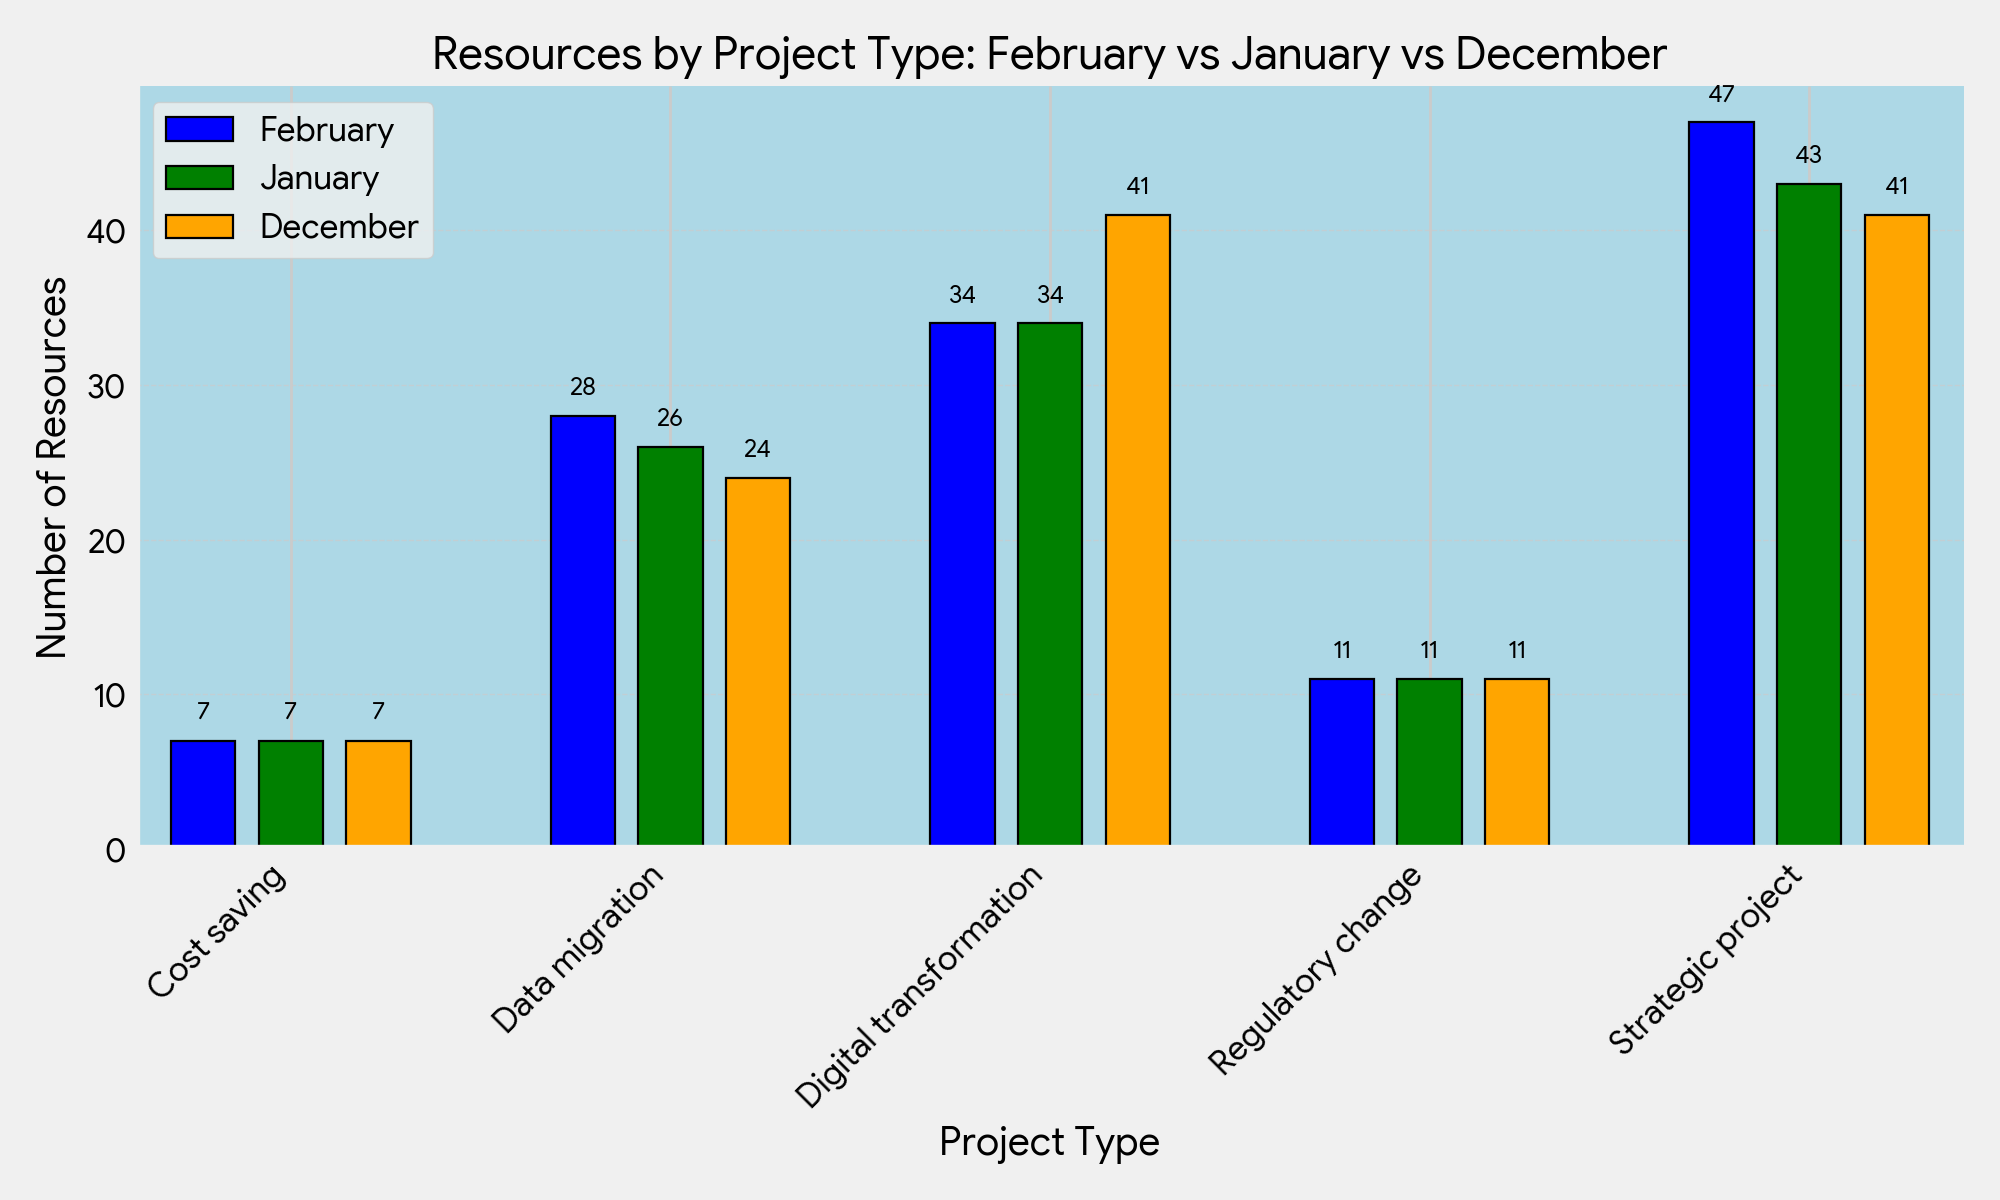
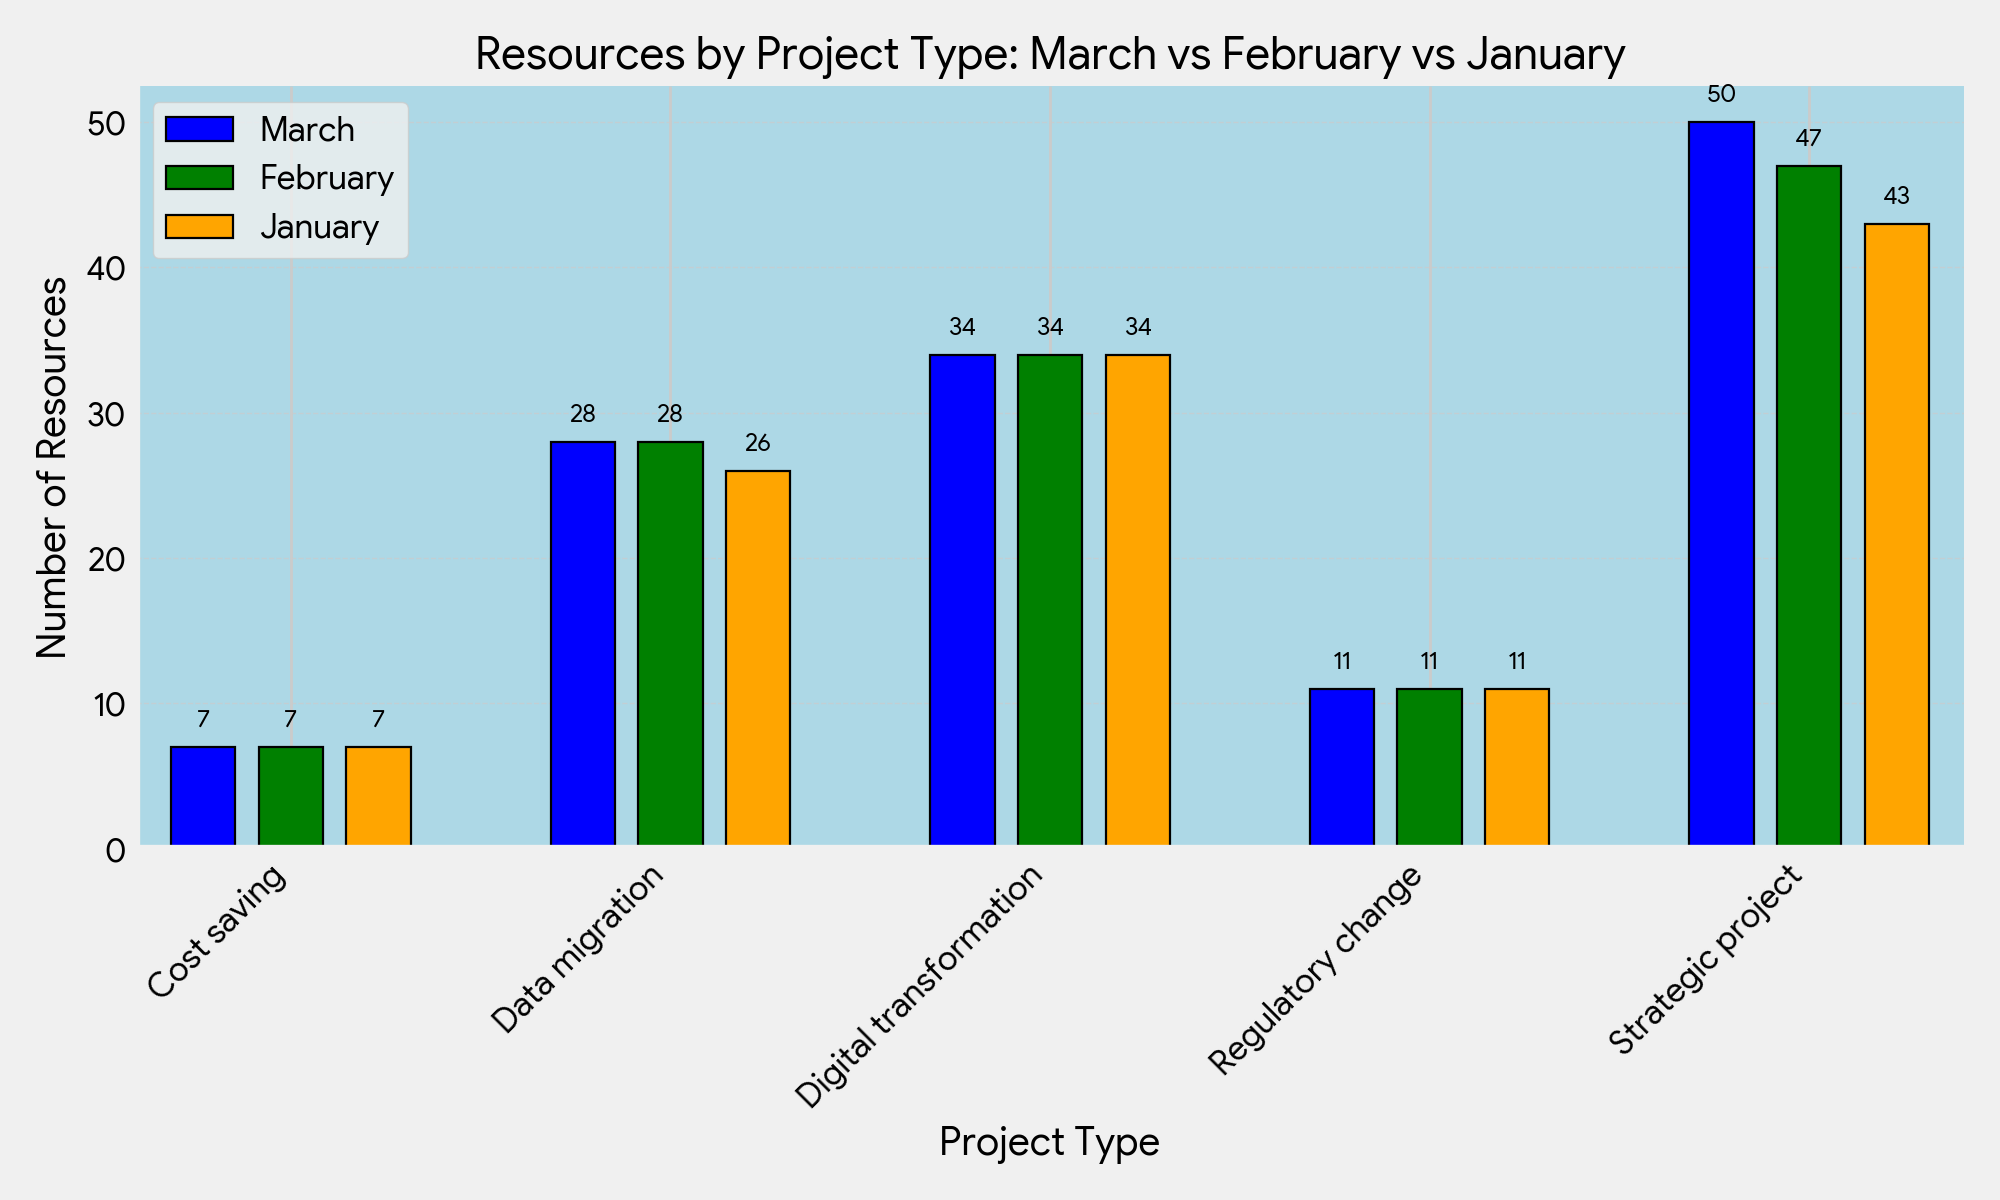
added march 2026

diff --git a/config.py b/config.py
@@ -9,13 +9,13 @@ FONT_SIZE = 12
 OUTPUT_DIR = "outputs"
 
 # Sheet names
-SHEET_1 = "DATA_Feb26"
-SHEET_2 = "DATA_Jan26"
-SHEET_3 = "DATA_Dec25"
+SHEET_1 = "DATA_Mar26"
+SHEET_2 = "DATA_Feb26"
+SHEET_3 = "DATA_Jan26"
 
-MONTH_1 = "February"
-MONTH_2 = "January"
-MONTH_3 = "December"
+MONTH_1 = "March"
+MONTH_2 = "February"
+MONTH_3 = "January"
 
 # Column mapping
 CATEGORIES = {
